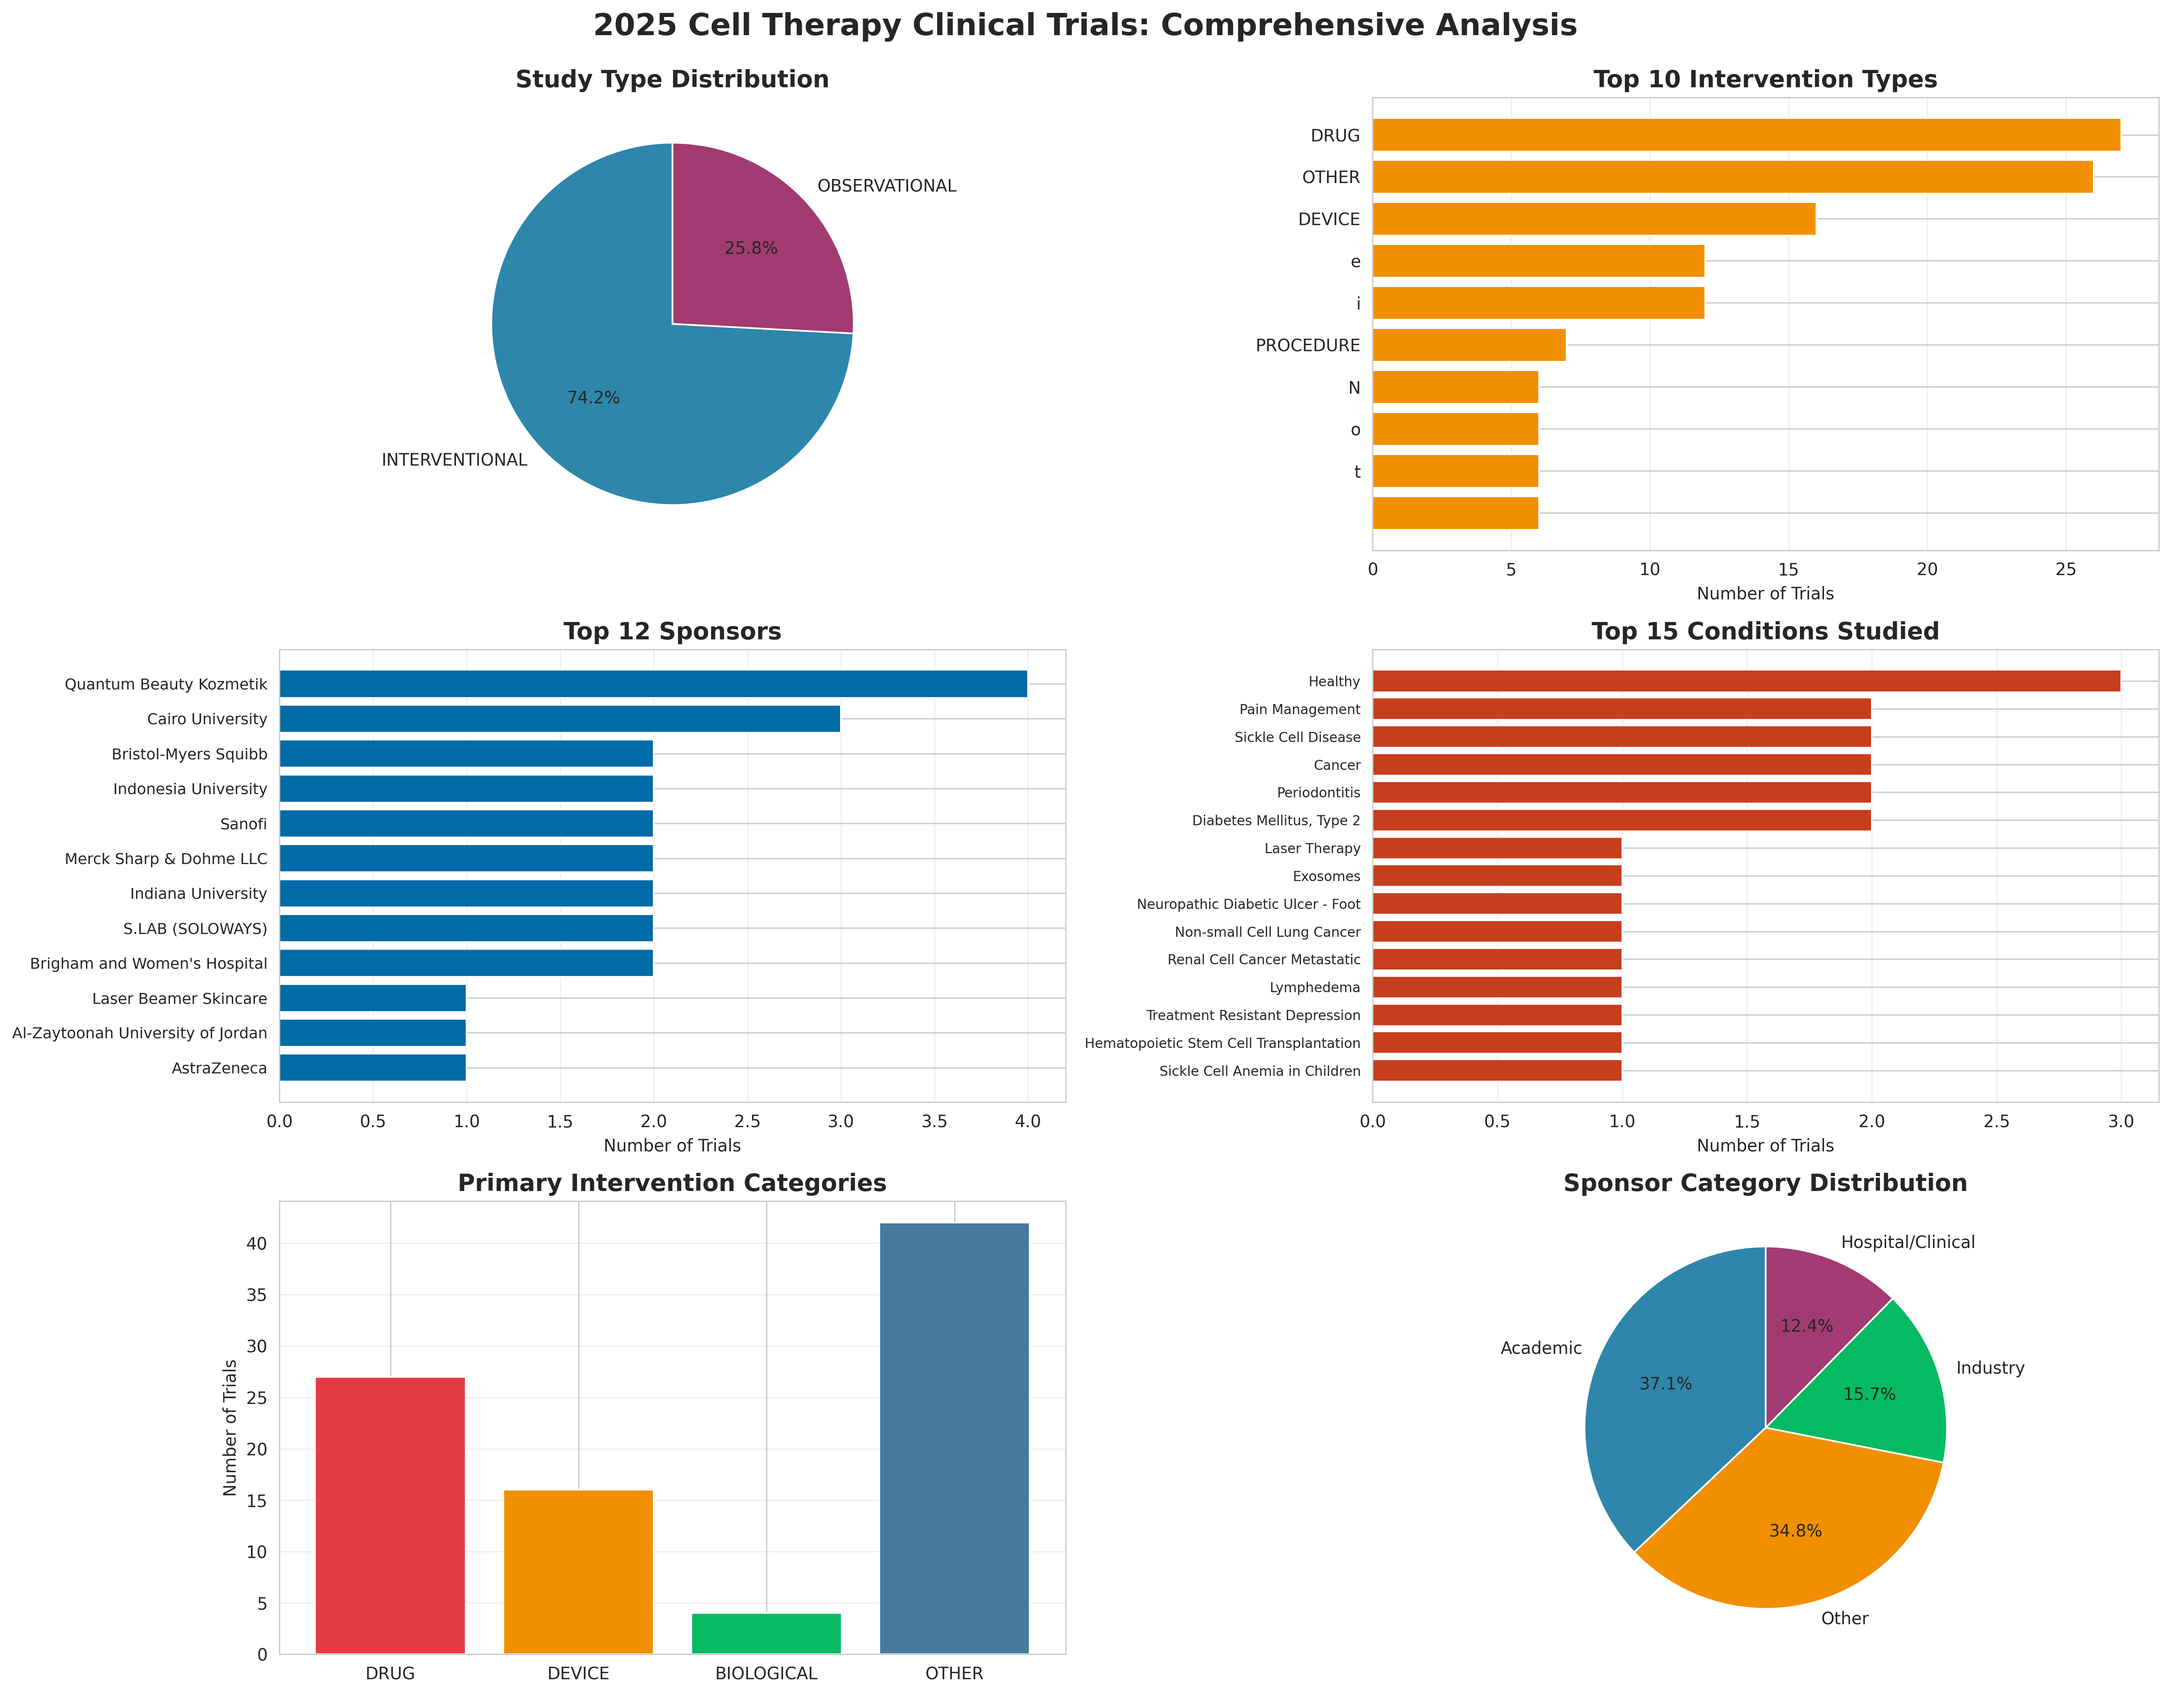
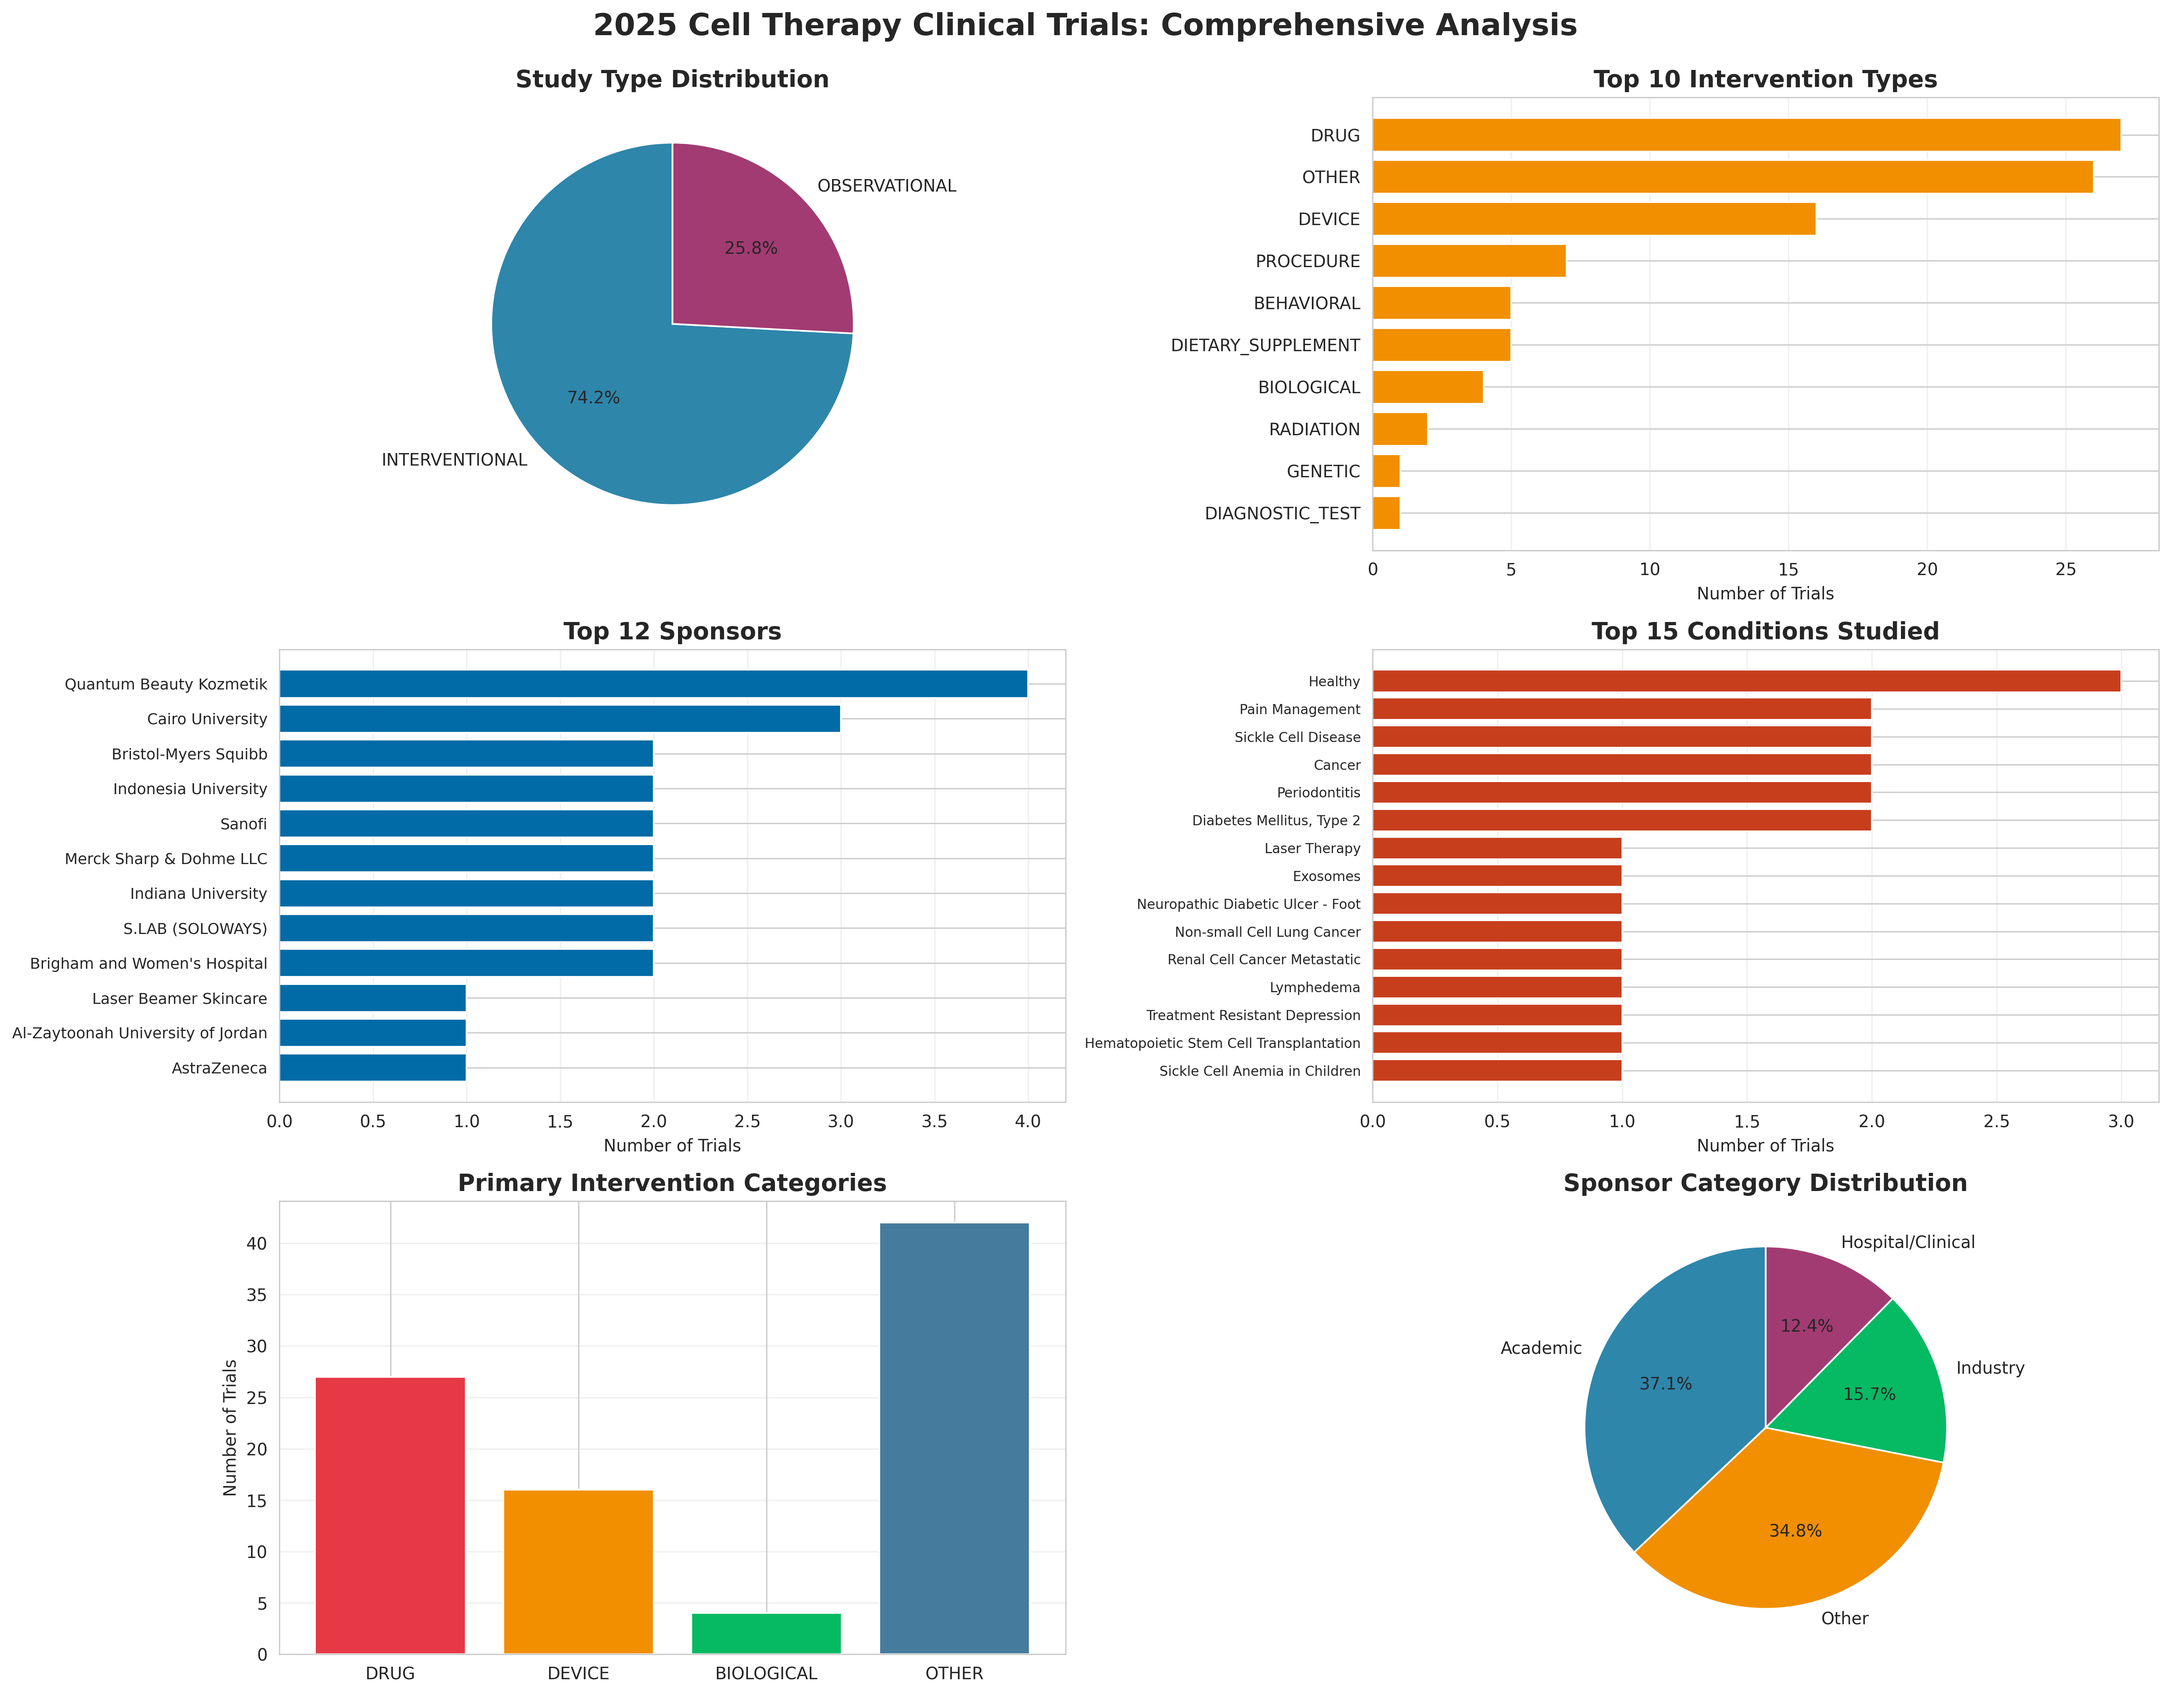
Updated

Changed region(s): [[0.5909, 0.1249, 0.8086, 0.3124], [0.5598, 0.1562, 0.622, 0.2186]]

diff --git a/analyze_cell_therapy.py b/analyze_cell_therapy.py
@@ -46,7 +46,8 @@ for interventions in df['Interventions']:
     types = extract_intervention_type(interventions)
     intervention_types.extend(types)
 
-intervention_counts = Counter(intervention_types)
+# Filter out single-letter artifacts and count
+intervention_counts = Counter([t for t in intervention_types if len(t) > 1])
 
 # Create comprehensive dashboard
 fig, axes = plt.subplots(3, 2, figsize=(18, 14))
